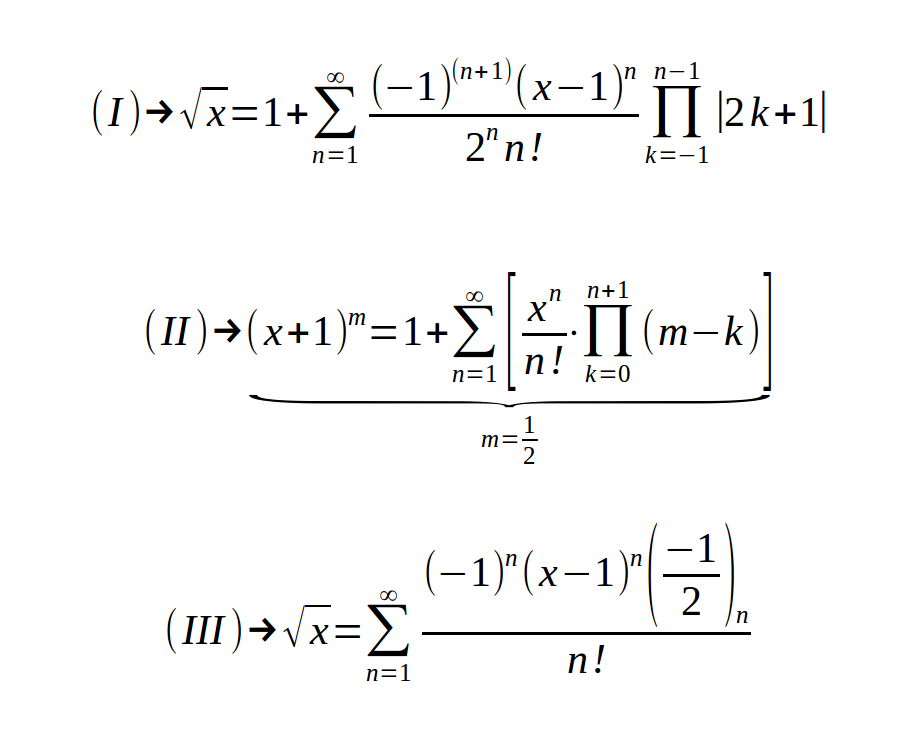
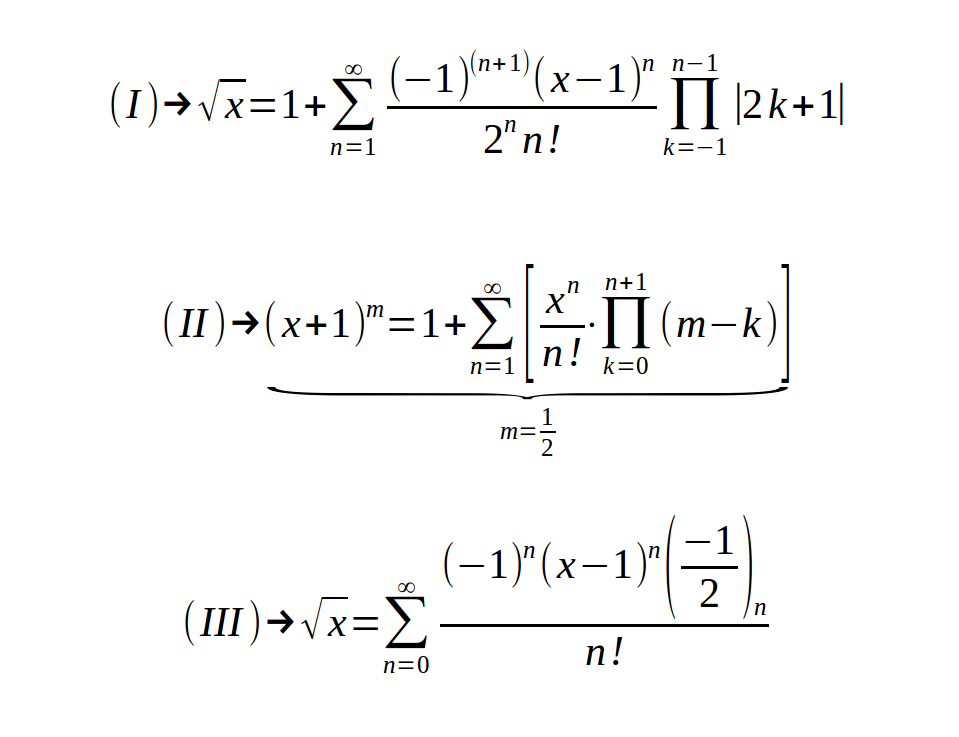
Finnally fixed the (III) serie! Dumb things with sum and code... C my hate/love!

Changed region(s): [[0.1527, 0.3433, 0.855, 0.6242], [0.0916, 0.0624, 0.916, 0.2185], [0.1832, 0.7178, 0.8244, 0.9362]]

diff --git a/C/sqrt_aprox.c b/C/sqrt_aprox.c
@@ -12,12 +12,12 @@ long fact(int n){
 		return n * fact(n - 1);
 }
 
-double rising_fact(int x, int n){
+double rising_fact(double x, int n){
 	int k;
-	double productory;
+	double productory = 1;
 	
-	for(k = 0; k <= n + 1; k++)
-		productory *= (k + x);
+	for(k = 0; k < n; k++)
+		productory *= (x + k);
 
 	return productory;
 
@@ -42,8 +42,8 @@ double man_serie(double x){
 		long denominator = pow(2, n) * fact(n);
 
 		double slice = (sign * productory * pot)/denominator;
-
-		printf("Slice %d: %lf <=> (%d * %lf * %lf) / %li\n " , \
+		//debug
+		printf("Slice %d: %lf <=> (%d * %lf * %lf) / %li\n" , \
 			n, slice, sign, productory, pot, denominator);
 
 		accumulator += slice;
@@ -69,8 +69,9 @@ double sav_serie(double x){
 		long denominator = fact(n);
 
 		double slice = (productory * pot)/denominator;
-
-		printf("Slice %d: %lf\n", n, slice);
+		//debug
+		printf("Slice %d: %lf <=> (* %lf * %lf) / %li\n", \
+			n, slice, productory, pot, denominator);
 
 		accumulator += slice;
 	}
@@ -80,13 +81,13 @@ double sav_serie(double x){
 
 double wolf_serie(double x){
 	int n;
-	double accumulator = 1, productory = 1;
+	double accumulator = 0, productory = 1;
 	int sign = 1;
 
-	for(n = 1; n <= SLICES; n++){
+	for(n = 0; n <= SLICES; n++){
 		sign = pow(-1, n);
 		
-		productory = rising_fact(x, n);
+		productory = rising_fact(-0.5, n);
 		
 		double pot = pow((x - 1), n);
 
@@ -94,7 +95,9 @@ double wolf_serie(double x){
 
 		double slice = (sign * productory * pot)/denominator;
 
-		printf("Slice %d: %lf\n", n, slice);
+		//debug
+		printf("Slice %d: %lf <=> (%d * %lf * %lf) / %li\n", \
+			n, slice, sign, productory, pot, denominator);
 
 		accumulator += slice;
 	}
